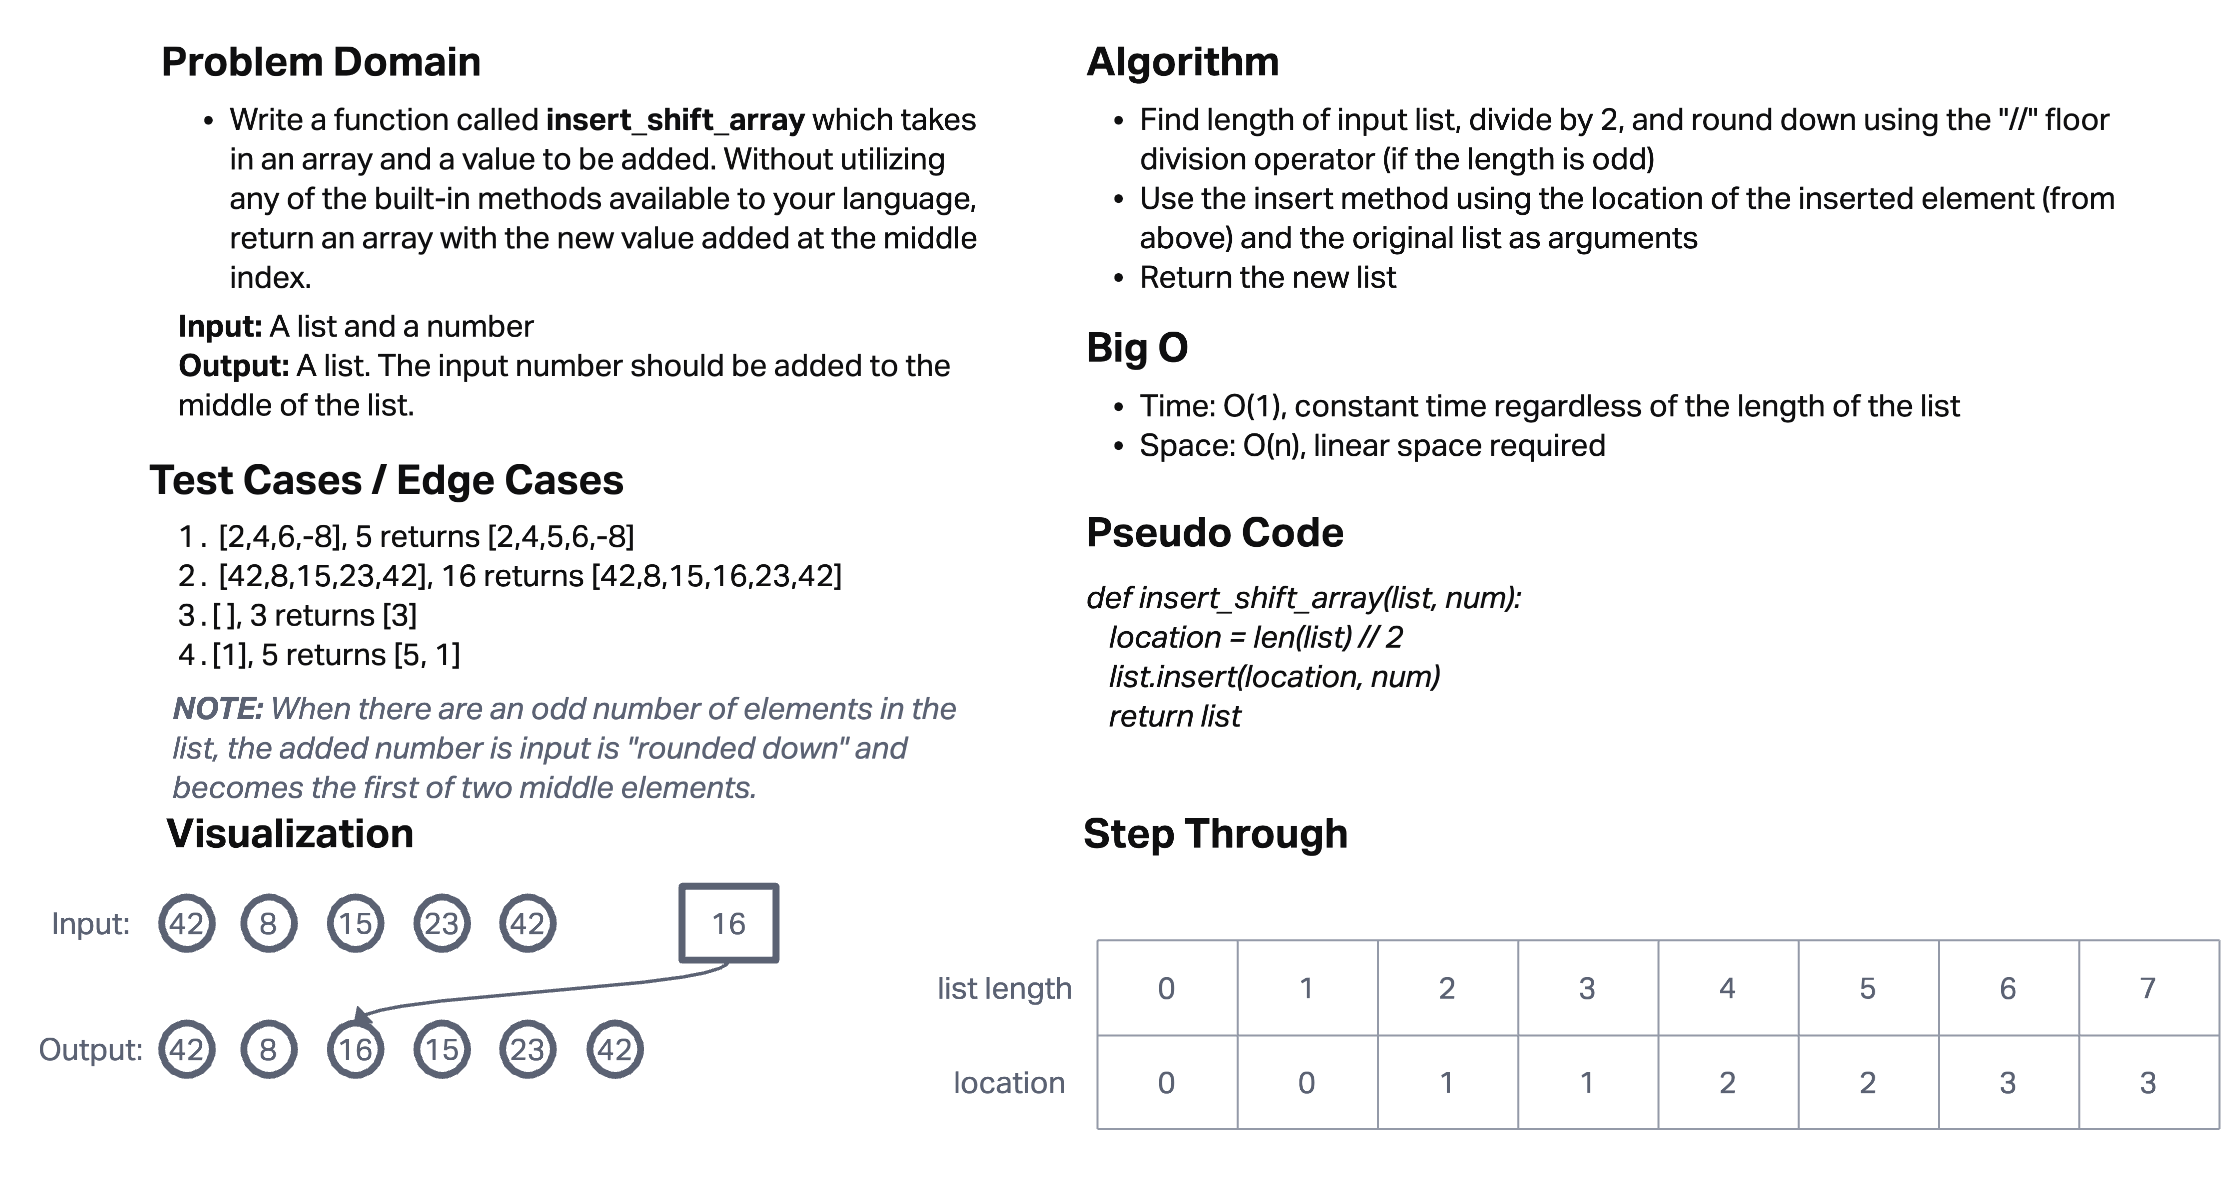
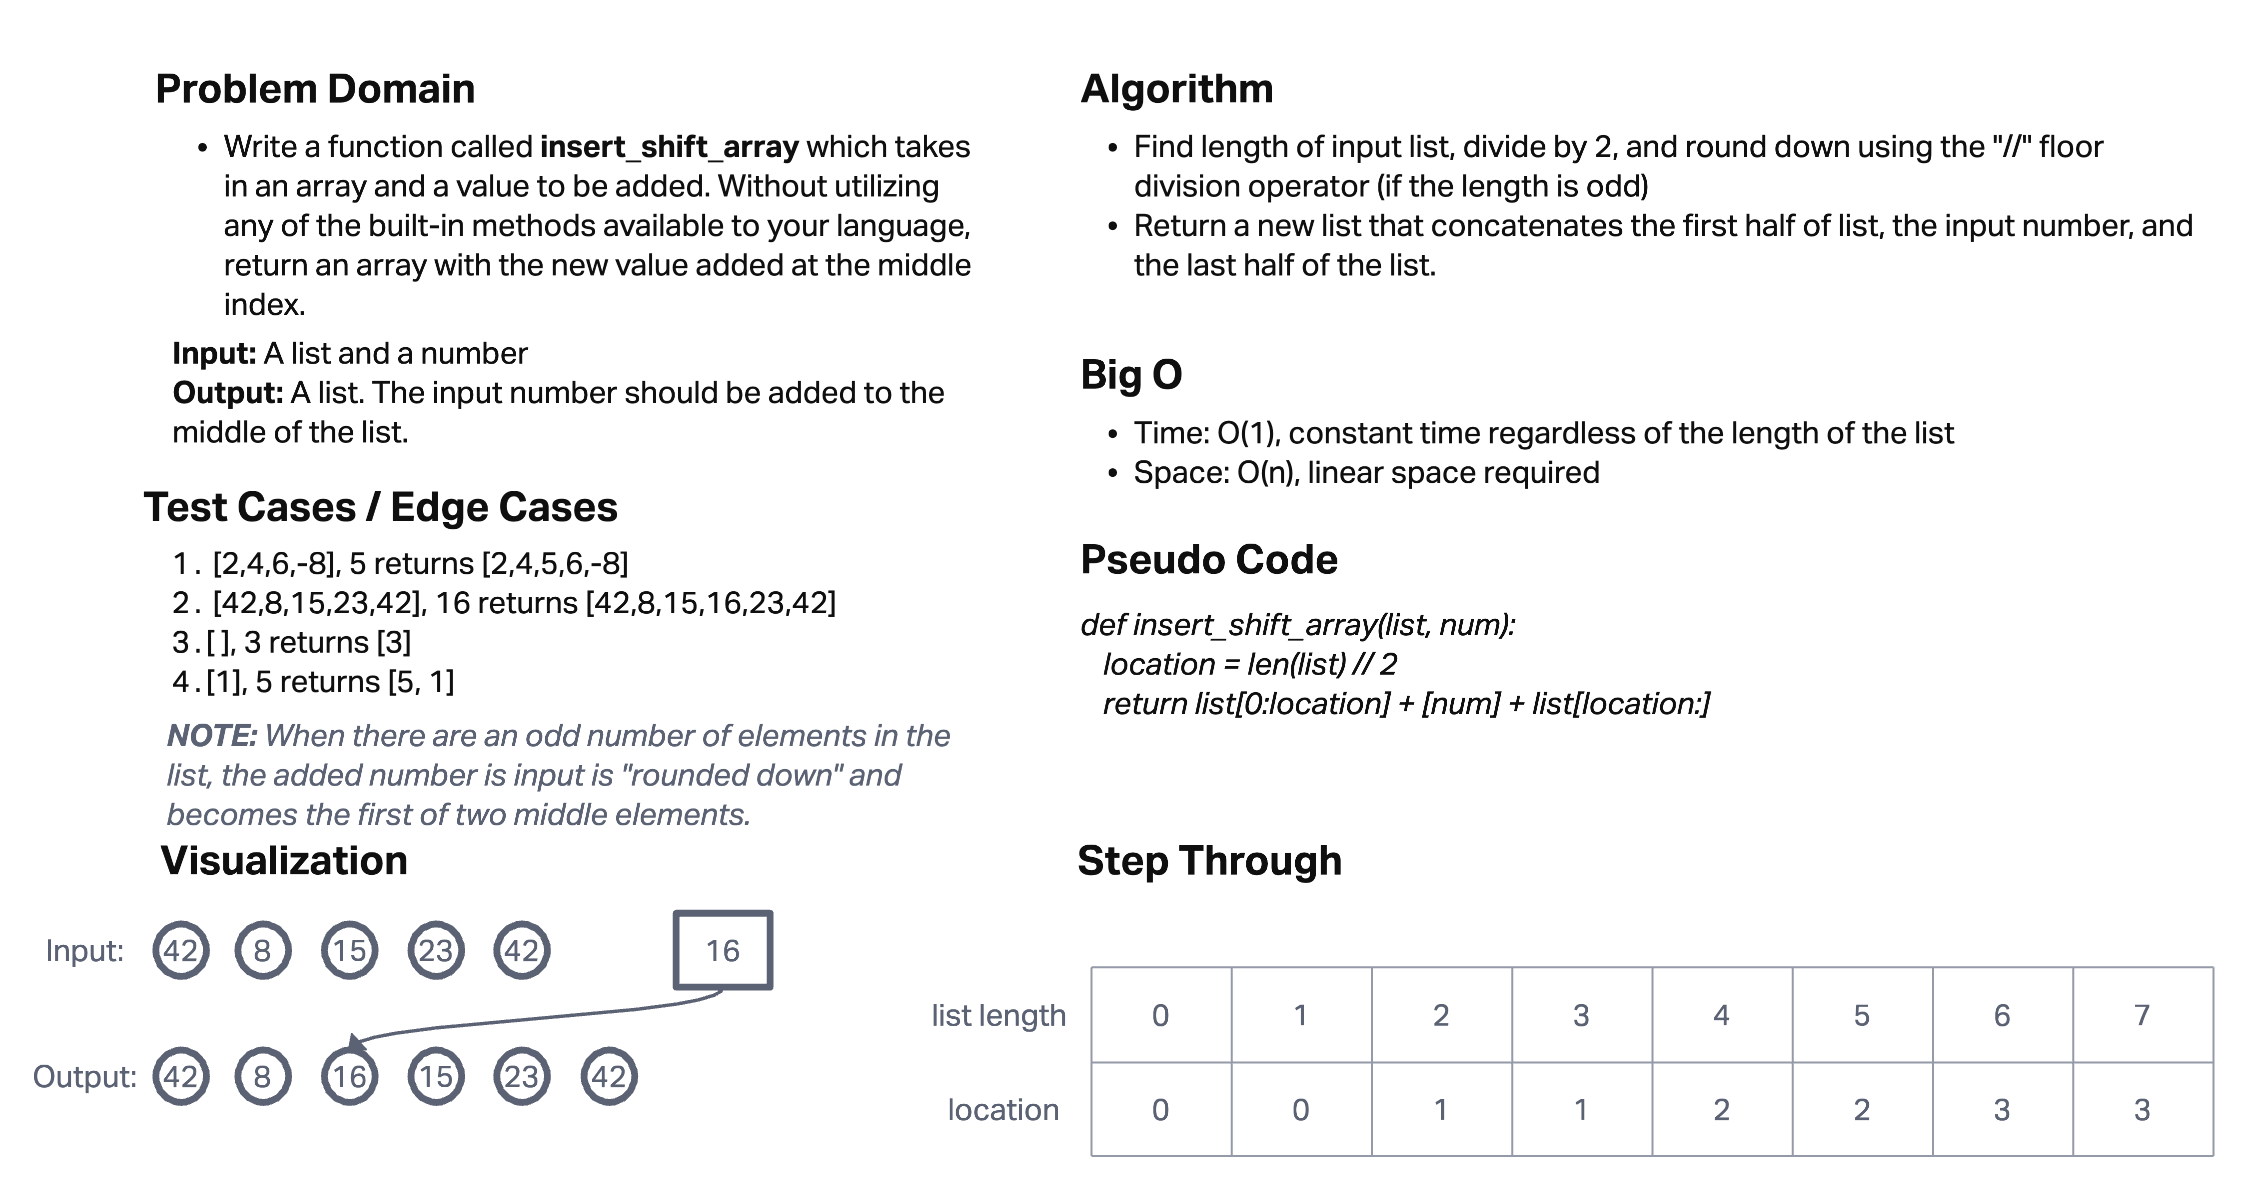
changed approach to CC02

diff --git a/python/docs/array_insert_shift/README.md b/python/docs/array_insert_shift/README.md
@@ -8,6 +8,6 @@ Write a function called reverseArray which takes an array as an argument. Withou
 
 ## Approach & Efficiency
 
-I found the length of the input list and divided by 2 (rounding down using the // floor division operator) and saved the number to a variable called "location". Then I used the insert method to insert the given element into the given list at the index of "location". This modified the original list, so then I returned the modified list.
+I found the length of the input list and divided by 2 (rounding down using the // floor division operator) and saved the number to a variable called "location". Then I returned a new list that concatenated the first half of the input list, the input number, then the last half of the input list using ":"'s to divide the original list.
 
 Efficiency is O(1) for time since it will remain constant and O(N) for space since it will increase linearly.
